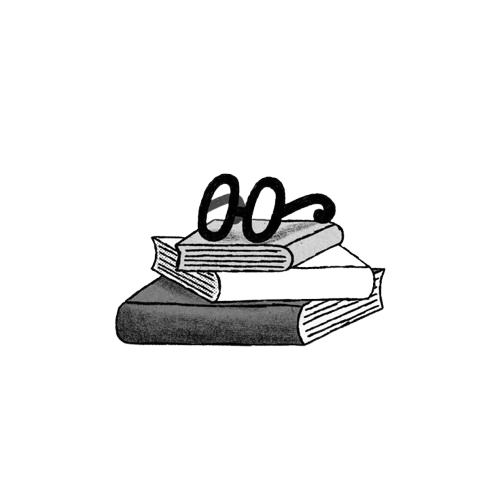
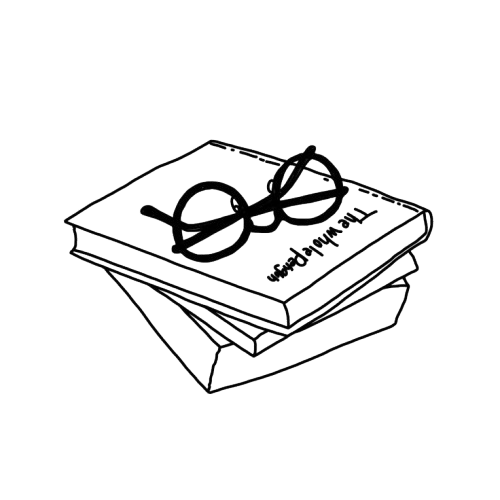
updates

diff --git a/style.css b/style.css
@@ -1,7 +1,4 @@
-@import url('https://fonts.googleapis.com/css2?family=VT323&family=IBM+Plex+Sans:wght@500;600;700&display=swap');
-@import url('https://fonts.googleapis.com/css2?family=VT323&family=IBM+Plex+Sans:wght@500;600;700&family=Nunito:wght@400;500;600;700&display=swap');
-/* @import url('https://fonts.googleapis.com/css2?family=IBM+Plex+Mono:wght@400;500;600;700&display=swap'); */
-@import url('https://fonts.googleapis.com/css2?family=IBM+Plex+Sans:wght@100;200;300;400;450;500;600;700&display=swap');
+@import url('https://fonts.googleapis.com/css2?family=IBM+Plex+Sans:wght@300;400;500;600;700&family=IBM+Plex+Mono:wght@400;500;600;700&display=swap');
 
 /* adding a scrollbar to prevent layout shift when it appears */
 html {
@@ -15,6 +12,11 @@ html {
     --border: #e6dbcc;
     --accent: #222222;
 
+    --navbar-bg: #fffaf1;
+    /* --navbar-border: #fffaf1; */
+    /* --navbar-text: #f0f0f0; */
+    --nav-weight: 800;
+
     --body-font: 'IBM Plex Sans', sans-serif;
     --heading-font: 'IBM Plex Mono', monospace;
 
@@ -27,45 +29,12 @@ html {
 
     --muted-text: rgba(44, 36, 29, 0.65);
 
-    --navbar-bg: #fffaf1;
-
-    --nav-weight: 800;
-
-    --btn-bg: #3b342d;
-    --btn-text: #fffaf1;
-
-    --btn-light-edge: #ffffff;
-    --btn-dark-edge: #cfc7bb;
-
     --page-padding: 2rem;
-    
 }
 
 /* =========================================
    THEMES
 ========================================= */
-
-[data-theme="gray"] {
-    --bg: #f7f7f7;
-    --paper: #ffffff;
-    --text: #3f3f3f;
-    --border: #d9d9d9;
-    --accent: #6a5c53;
-
-    --navbar-bg: #ecece8;
-    --navbar-border: #d0d0cc;
-    --navbar-text: #444444;
-
-    --body-font: 'IBM Plex Sans', sans-serif;
-    --heading-font: 'IBM Plex Sans', sans-serif;
-    /* --heading-scale: 0.5; */
-
-    --btn-bg: #ecece8;
-    --btn-text: #444444;
-
-    --btn-light-edge: #ffffff;
-    --btn-dark-edge: #c8c8c8;
-}
 
 [data-theme="dark-gray"] {
 
@@ -78,32 +47,122 @@ html {
     --navbar-bg: #2a2a2a;
     --navbar-border: #3f3f3f;
     --navbar-text: #f0f0f0;
+    --nav-weight: 800;
+
+    --body-font: 'IBM Plex Sans', sans-serif;
+    --heading-font: 'IBM Plex Mono', monospace;
+
+    --selection-bg: #4a4a4a;
+    --selection-text: #ffffff;
+
+    --heading-scale: 0.9;
+    --heading-spacing: 0.04em;
+    --nav-spacing: 0em;
+
+    --muted-text: rgba(230, 230, 230, 0.65);
+
+    --page-padding: 2rem;
 
     --ui-bg: #262626;
     --ui-border: #3a3a3a;
     --ui-text: #e6e6e6;
     --ui-muted: #bdbdbd;
 
-    --selection-bg: #4a4a4a;
-    --selection-text: #ffffff;
-
-    --muted-text: rgba(230, 230, 230, 0.65);
-
-    --body-font: 'IBM Plex Sans', sans-serif;
-    --heading-font: 'IBM Plex Mono', monospace;
-
-    --heading-scale: 0.9;
-    --heading-spacing: 0.04em;
-    --nav-spacing: 0em;
-
-    --btn-bg: #2f2f2f;
-    --btn-text: #e6e6e6;
-
-    --btn-light-edge: #4a4a4a;
-    --btn-dark-edge: #1a1a1a;
-
-
 }
+
+[data-theme="dark-gray"] a {
+    color: #c9c9c9;
+}
+
+[data-theme="dark-gray"] a:hover {
+    color: #ffffff;
+}
+
+[data-theme="dark-gray"] code,
+[data-theme="dark-gray"] pre {
+    background: #2a2a2a;
+    color: #e6e6e6;
+    border: 1px solid #3a3a3a;
+}
+
+[data-theme="dark-gray"] .footer {
+    border-top: 1px solid var(--ui-border);
+    opacity: 1;
+    color: var(--ui-muted);
+}
+
+[data-theme="dark-gray"] .footer a {
+    color: var(--ui-text);
+}
+
+[data-theme="dark-gray"] .footer a:hover {
+    color: #ffffff;
+}
+
+[data-theme="dark-gray"] .icon {
+    filter: brightness(0) invert(0.9);
+}
+
+[data-theme="dark-gray"] .icon-link:hover .icon {
+    filter: brightness(0) invert(1);
+}
+
+.wizard {
+    position: relative;
+    width: 100px;
+    height: 100px;
+}
+
+.wizard img {
+    position: absolute;
+    inset: 0;
+    width: 100%;
+    height: 100%;
+}
+
+.wizard-light {
+    display: block;
+}
+
+.wizard-dark {
+    display: none;
+}
+
+[data-theme="dark-gray"] .wizard-light {
+    display: none;
+}
+
+[data-theme="dark-gray"] .wizard-dark {
+    display: block;
+}
+
+
+
+.theme-toggle {
+    /* background: var(--navbar-bg); */
+    background: transparent;
+    color: var(--navbar-text);
+
+    border: 0px;
+    border-radius: 100px;
+
+    padding: 0.3rem 0.6rem;
+
+    font-size: 1.2rem;
+    cursor: pointer;
+
+    font-family: var(--heading-font);
+
+    transition: 0.2s ease;
+
+    margin-left: auto;
+}
+
+.theme-toggle:hover {
+    opacity: 0.8;
+    transform: scale(0.94);
+}
+
 
 * {
 
@@ -684,61 +743,6 @@ p {
     color: var(--muted-text);
 }
 
-[data-theme="dark-gray"] a {
-    color: #c9c9c9;
-}
-
-[data-theme="dark-gray"] a:hover {
-    color: #ffffff;
-}
-
-[data-theme="dark-gray"] code,
-[data-theme="dark-gray"] pre {
-    background: #2a2a2a;
-    color: #e6e6e6;
-    border: 1px solid #3a3a3a;
-}
-
-[data-theme="dark-gray"] .footer {
-    border-top: 1px solid var(--ui-border);
-    opacity: 1;
-    color: var(--ui-muted);
-}
-
-[data-theme="dark-gray"] .footer a {
-    color: var(--ui-text);
-}
-
-[data-theme="dark-gray"] .footer a:hover {
-    color: #ffffff;
-}
-
-.theme-toggle {
-    /* background: var(--navbar-bg); */
-    background: transparent;
-    color: var(--navbar-text);
-
-    border: 1px solid var(--navbar-border);
-    border-radius: 100px;
-
-    padding: 0.3rem 0.6rem;
-
-    font-size: 1.2rem;
-    cursor: pointer;
-
-    font-family: var(--heading-font);
-
-    transition: 0.2s ease;
-
-    margin-left: auto;
-}
-
-.theme-toggle:hover {
-    opacity: 0.8;
-    /* transform: translateY(-1px); */
-    transform: scale(0.94);
-}
-
 /* =========================================
    NOTES LIST  
 ========================================= */
@@ -1045,45 +1049,6 @@ p {
     opacity: 0.9;
 }
 
-[data-theme="dark-gray"] .icon {
-    filter: brightness(0) invert(0.9);
-}
-
-[data-theme="dark-gray"] .icon-link:hover .icon {
-    filter: brightness(0) invert(1);
-}
-
-[data-theme="dark-gray"] .download-buttons a {
-    background: #2f2f2f;
-    color: #e6e6e6;
-    border: 1px solid #3f3f3f;
-}
-
-[data-theme="brown"] .download-buttons a {
-    box-shadow: 2px 2px 0 rgba(0, 0, 0, 0.25);
-
-    background: #5b4a3f;
-    color: #f5ead9;
-
-    border-top: 2px solid #9a816d;
-    border-left: 2px solid #9a816d;
-
-    border-right: 2px solid #3d3129;
-    border-bottom: 2px solid #3d3129;
-}
-
-[data-theme="brown"] .download-buttons a:hover {
-    box-shadow: none;
-
-    transform: translateY(2px);
-
-    border-top: 2px solid #3d3129;
-    border-left: 2px solid #3d3129;
-
-    border-right: 2px solid #9a816d;
-    border-bottom: 2px solid #9a816d;
-}
-
 /* =========================================
    MATHEMATICAL ENVIRONMENTS
 ========================================= */
@@ -1309,15 +1274,6 @@ body {
 .wizard-dark {
     display: none;
 }
-
-[data-theme="dark-gray"] .wizard-light {
-    display: none;
-}
-
-[data-theme="dark-gray"] .wizard-dark {
-    display: block;
-}
-
 
 
 .news-widget {

diff --git a/index.html b/index.html
@@ -41,7 +41,7 @@
                 <a href="about.html">MISC</a>
             </div>
 
-            <!-- <button id="theme-toggle" class="theme-toggle">◐</button> -->
+            <button id="theme-toggle" class="theme-toggle">◐</button>
         </div>
     </nav>
 
@@ -58,8 +58,8 @@
 
             <div class="hero-image">
                 <div class="wizard">
-                    <img src="assets/images/books.png" class="wizard-light" alt="Wizard">
-                    <img src="assets/images/books.png" class="wizard-dark" alt="Wizard">
+                    <img src="assets/images/hut.png" class="wizard-light" alt="Wizard">
+                    <img src="assets/images/whitehut.png" class="wizard-dark" alt="Wizard">
                 </div>
             </div>
         </div>

diff --git a/notes.html b/notes.html
@@ -56,8 +56,8 @@
             </div>
             <div class="hero-image">
                 <div class="wizard">
-                    <img src="assets/images/theJobMan-removebg-preview.png" class="wizard-light" alt="Wizard">
-                    <img src="assets/images/jobmaninverted.png" class="wizard-dark" alt="Wizard">
+                    <img src="assets/images/cofBooks.png" class="wizard-light" alt="Wizard">
+                    <img src="assets/images/whitecofBooks.png" class="wizard-dark" alt="Wizard">
                 </div>
             </div>
         </div>